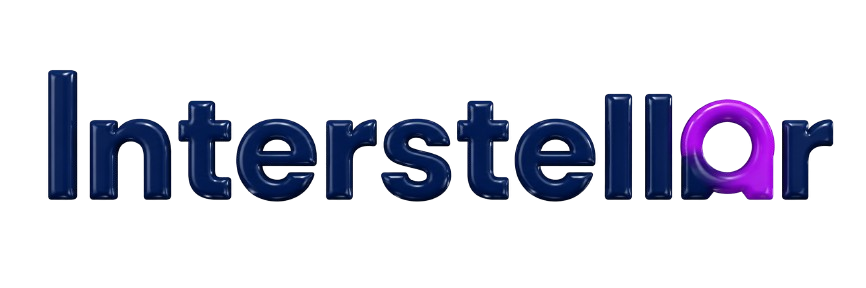
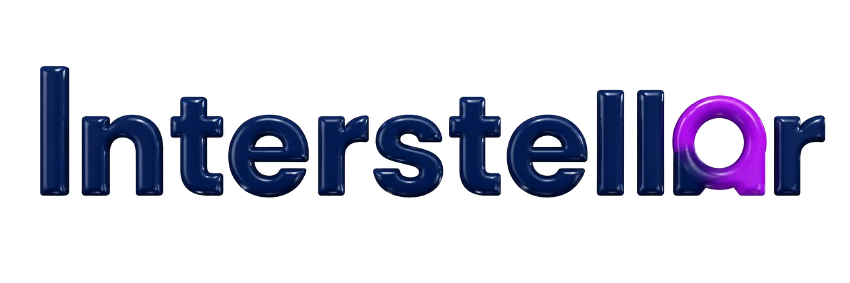
Tight-crop empty PNG padding and adjust Y positions for tight gapless alignment between Interstellar title and Consultation service subtitle

Changed region(s): [[0.0306, 0.2261, 0.9788, 0.7067], [0.4588, 0.6784, 0.52, 0.7067], [0.5506, 0.6784, 0.5812, 0.7067]]

diff --git a/active-theory-local-viewer/src/scene/LogoScene.js b/active-theory-local-viewer/src/scene/LogoScene.js
@@ -341,8 +341,8 @@ export function createLogoMesh() {
     texture.minFilter = THREE.LinearFilter;
     texture.magFilter = THREE.LinearFilter;
 
-    // Aspect ratio 3.007 (866x288) -> 4.5 x 1.5 units plane
-    const planeGeom = new THREE.PlaneGeometry(4.5, 1.5);
+    // Aspect ratio 3.004 (850x283 tight cropped) -> 4.5 x 1.50 units plane
+    const planeGeom = new THREE.PlaneGeometry(4.5, 1.50);
     const planeMat = new THREE.MeshBasicMaterial({
       map: texture,
       color: new THREE.Color('#ffffff'),
@@ -353,7 +353,7 @@ export function createLogoMesh() {
     });
 
     const thusaMesh = new THREE.Mesh(planeGeom, planeMat);
-    thusaMesh.position.set(0.70, 0.45, 0.0);
+    thusaMesh.position.set(0.70, 0.22, 0.0);
     logoGroup.add(thusaMesh);
 
     console.log('[LogoScene] Loaded THUSA-removebg-preview.png texture successfully!');
@@ -367,8 +367,8 @@ export function createLogoMesh() {
     texture.minFilter = THREE.LinearFilter;
     texture.magFilter = THREE.LinearFilter;
 
-    // Aspect ratio 1.776 (666x375) -> 3.5 x 1.97 units plane
-    const subGeom = new THREE.PlaneGeometry(3.6, 2.0);
+    // Aspect ratio 11.093 (599x54 tight cropped) -> 3.6 x 0.325 units plane
+    const subGeom = new THREE.PlaneGeometry(3.6, 0.325);
     const subMat = new THREE.MeshBasicMaterial({
       map: texture,
       color: new THREE.Color('#ffffff'),
@@ -379,7 +379,7 @@ export function createLogoMesh() {
     });
 
     const subMesh = new THREE.Mesh(subGeom, subMat);
-    subMesh.position.set(0.70, -0.55, 0.0);
+    subMesh.position.set(0.70, -0.42, 0.0);
     logoGroup.add(subMesh);
 
     console.log('[LogoScene] Loaded subtitle_text.png texture successfully!');
